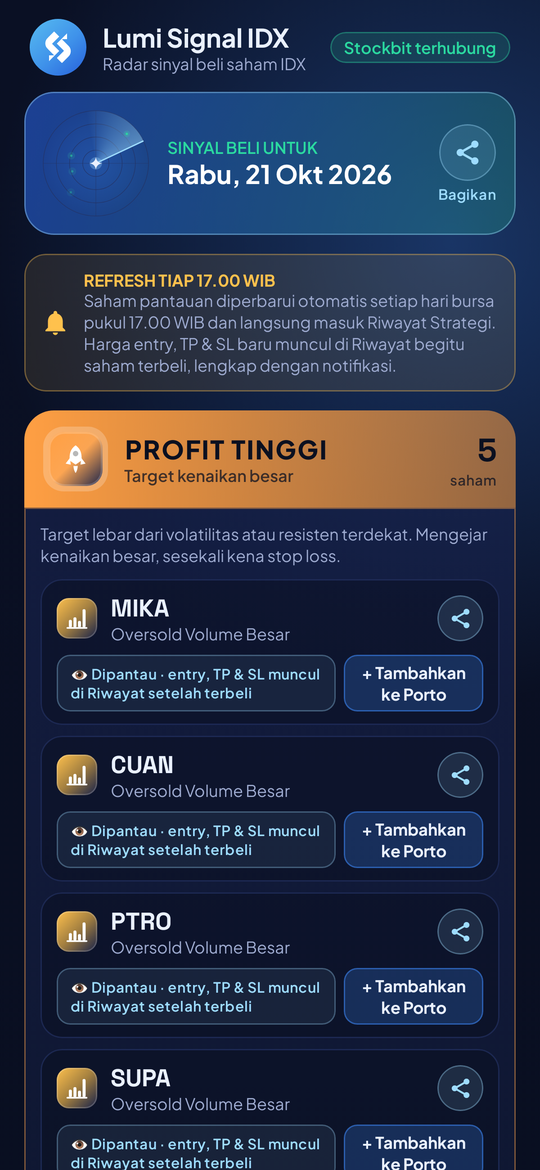
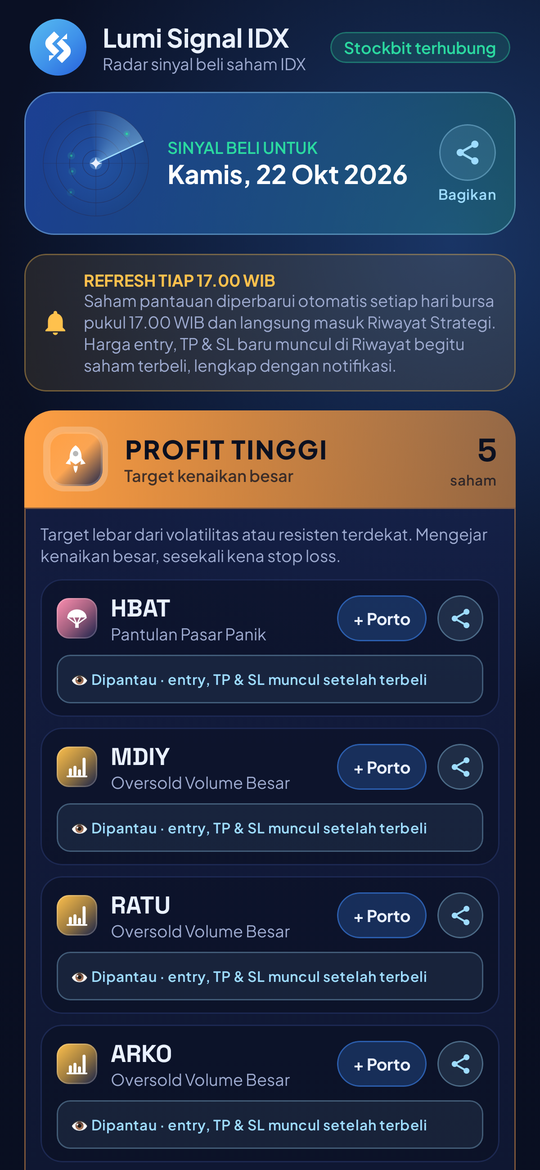
v2.2: tombol Porto di atas kartu Beranda, Riwayat Strategi, dan detail
Claude-Session: https://claude.ai/code/session_01PuKLHyoYSW1sPiRyMbgmbw

Changed region(s): [[0.0889, 0.4923, 0.9185, 1.0], [0.3852, 0.1231, 0.7704, 0.1846], [0.3259, 0.1231, 0.3556, 0.1538]]

diff --git a/app/src/main/java/com/lumisignal/idx/ui/screens/RadarScreen.kt b/app/src/main/java/com/lumisignal/idx/ui/screens/RadarScreen.kt
@@ -568,7 +568,22 @@ fun PickRow(d: RadarDay, tier: String, jenis: String, p: RadarPick, sid: Int, co
                 val sub = if (combined) d.strategy(sid)?.name ?: p.name else p.name
                 if (sub.isNotBlank()) Text(sub, style = MaterialTheme.typography.bodySmall, color = Lumi.TextDim, maxLines = 1, overflow = TextOverflow.Ellipsis)
             }
-            Spacer(Modifier.width(10.dp))
+            Spacer(Modifier.width(8.dp))
+            // Portfolio button at the top, next to share.
+            val c = if (inPorto) Lumi.Green else Lumi.Blue
+            Box(
+                Modifier.height(34.dp).clip(RoundedCornerShape(17.dp)).background(c.copy(alpha = if (inPorto) 0.12f else 0.22f))
+                    .border(1.dp, c.copy(alpha = 0.5f), RoundedCornerShape(17.dp))
+                    .clickable { if (inPorto) onClick() else dialog = true }.padding(horizontal = 12.dp),
+                contentAlignment = Alignment.Center,
+            ) {
+                Text(
+                    if (inPorto) "✓ Di Porto" else "+ Porto",
+                    style = MaterialTheme.typography.labelMedium.copy(fontWeight = FontWeight.Bold),
+                    color = if (inPorto) Lumi.Green else Lumi.Text, maxLines = 1,
+                )
+            }
+            Spacer(Modifier.width(8.dp))
             val shareCtx = LocalContext.current
             ShareIcon({ com.lumisignal.idx.share.ShareCards.sharePick(shareCtx, d, jenis, p, sid) }, 34.dp)
         }
@@ -576,26 +591,13 @@ fun PickRow(d: RadarDay, tier: String, jenis: String, p: RadarPick, sid: Int, co
         Row(horizontalArrangement = Arrangement.spacedBy(6.dp)) {
             // Watchlist: entry, TP and SL are announced in the history (with a notification) once bought.
             Row(
-                Modifier.weight(2f).height(42.dp).clip(RoundedCornerShape(10.dp)).background(Lumi.Sky.copy(alpha = 0.08f))
+                Modifier.weight(1f).height(36.dp).clip(RoundedCornerShape(10.dp)).background(Lumi.Sky.copy(alpha = 0.08f))
                     .border(1.dp, Lumi.Sky.copy(alpha = 0.3f), RoundedCornerShape(10.dp)).padding(horizontal = 10.dp),
                 verticalAlignment = Alignment.CenterVertically,
             ) {
                 Text(
-                    "👁 Dipantau · entry, TP & SL muncul di Riwayat setelah terbeli",
-                    style = MaterialTheme.typography.labelSmall, color = Lumi.Sky, maxLines = 2,
-                )
-            }
-            val c = if (inPorto) Lumi.Green else Lumi.Blue
-            Box(
-                Modifier.weight(1f).height(42.dp).clip(RoundedCornerShape(10.dp)).background(c.copy(alpha = if (inPorto) 0.12f else 0.22f))
-                    .border(1.dp, c.copy(alpha = 0.5f), RoundedCornerShape(10.dp))
-                    .clickable { if (inPorto) onClick() else dialog = true }.padding(horizontal = 6.dp),
-                contentAlignment = Alignment.Center,
-            ) {
-                Text(
-                    if (inPorto) "✓ Sudah di Porto" else "+ Tambahkan ke Porto",
-                    style = MaterialTheme.typography.labelMedium.copy(fontWeight = FontWeight.Bold, textAlign = androidx.compose.ui.text.style.TextAlign.Center),
-                    color = if (inPorto) Lumi.Green else Lumi.Text, maxLines = 2,
+                    "👁 Dipantau · entry, TP & SL muncul setelah terbeli",
+                    style = MaterialTheme.typography.labelSmall, color = Lumi.Sky, maxLines = 1, overflow = TextOverflow.Ellipsis,
                 )
             }
         }

diff --git a/app/src/main/java/com/lumisignal/idx/ui/screens/SignalUi.kt b/app/src/main/java/com/lumisignal/idx/ui/screens/SignalUi.kt
@@ -30,6 +30,7 @@ import androidx.compose.runtime.getValue
 import androidx.compose.runtime.mutableStateOf
 import androidx.compose.runtime.remember
 import androidx.compose.runtime.setValue
+import androidx.lifecycle.compose.collectAsStateWithLifecycle
 import androidx.compose.ui.Alignment
 import androidx.compose.ui.Modifier
 import androidx.compose.ui.draw.clip
@@ -130,10 +131,28 @@ fun SignalRow(sig: Signal, onOpen: () -> Unit) {
                     Text(sig.symbol, style = NumberStyle.copy(fontSize = 18.sp, fontWeight = FontWeight.Bold), color = Lumi.Text)
                     Spacer(Modifier.width(8.dp))
                 }
-                Text(
-                    sig.radar?.name ?: Strategy.byId(sig.strategyId).title, style = MaterialTheme.typography.bodySmall, color = Lumi.TextDim,
-                    maxLines = 1, overflow = TextOverflow.Ellipsis,
-                )
+            }
+            // Strategy history: add to the portfolio from the top of the card.
+            if (sig.source == com.lumisignal.idx.data.SOURCE_STRATEGY) {
+                val items by com.lumisignal.idx.Graph.history.items.collectAsStateWithLifecycle()
+                val inPorto = androidx.compose.runtime.remember(items, sig.id) {
+                    items.any { it.source == com.lumisignal.idx.data.SOURCE_PORTO && it.linkedId == sig.id }
+                }
+                var dialog by androidx.compose.runtime.remember { androidx.compose.runtime.mutableStateOf(false) }
+                if (dialog) PortoDialog(sig, onDismiss = { dialog = false }) { price ->
+                    dialog = false
+                    com.lumisignal.idx.engine.Scanner.addToPorto(sig, price)
+                }
+                val c = if (inPorto) Lumi.Green else Lumi.Blue
+                Box(
+                    Modifier.height(32.dp).clip(RoundedCornerShape(16.dp)).background(c.copy(alpha = if (inPorto) 0.12f else 0.22f))
+                        .border(1.dp, c.copy(alpha = 0.5f), RoundedCornerShape(16.dp))
+                        .clickable { if (!inPorto) dialog = true else onOpen() }.padding(horizontal = 12.dp),
+                    contentAlignment = Alignment.Center,
+                ) {
+                    Text(if (inPorto) "✓ Di Porto" else "+ Porto", style = MaterialTheme.typography.labelMedium.copy(fontWeight = FontWeight.Bold), color = if (inPorto) Lumi.Green else Lumi.Text)
+                }
+                Spacer(Modifier.width(8.dp))
             }
             ShareIcon({ com.lumisignal.idx.share.ShareCards.shareSignal(shareCtx, sig) }, 32.dp)
             Spacer(Modifier.width(8.dp))
@@ -146,7 +165,12 @@ fun SignalRow(sig: Signal, onOpen: () -> Unit) {
                 }
             }
         }
-        Spacer(Modifier.height(10.dp))
+        // Strategy name on its own line, so the buttons above never squeeze it.
+        Text(
+            sig.radar?.name ?: Strategy.byId(sig.strategyId).title, style = MaterialTheme.typography.bodySmall, color = Lumi.TextDim,
+            maxLines = 1, overflow = TextOverflow.Ellipsis, modifier = Modifier.padding(start = 48.dp, top = 2.dp),
+        )
+        Spacer(Modifier.height(8.dp))
         TradeTimeline(
             signal = sig.refDate, buy = sig.entryDate, sell = sig.exitDate, hold = sig.holdDays,
             pending = when {

diff --git a/app/src/main/java/com/lumisignal/idx/ui/screens/DetailScreen.kt b/app/src/main/java/com/lumisignal/idx/ui/screens/DetailScreen.kt
@@ -220,6 +220,14 @@ private fun RadarSignalDetail(sig: Signal, chartBars: List<Bar>, onBack: () -> U
                 }
             }
             Spacer(Modifier.height(12.dp))
+            // Portfolio action at the top.
+            when {
+                sig.source == SOURCE_PORTO ->
+                    GhostButton("Hapus dari Porto", onDelete, Modifier.fillMaxWidth(), icon = Icons.Filled.Delete, color = Lumi.Red)
+                porto == null -> GradientButton("Masukkan Porto", onPorto, Modifier.fillMaxWidth(), icon = Icons.Filled.Add)
+                else -> GhostButton("Sudah ada di Porto", {}, Modifier.fillMaxWidth(), icon = Icons.Filled.CheckCircle, color = Lumi.Green)
+            }
+            Spacer(Modifier.height(12.dp))
             TrackingCard(sig)
             Spacer(Modifier.height(12.dp))
             plan?.let {
@@ -268,13 +276,6 @@ private fun RadarSignalDetail(sig: Signal, chartBars: List<Bar>, onBack: () -> U
                     Spacer(Modifier.height(4.dp))
                     Text("Syarat: ${tag.desc}", style = MaterialTheme.typography.bodySmall, color = Lumi.TextMuted)
                 }
-            }
-            Spacer(Modifier.height(12.dp))
-            when {
-                sig.source == SOURCE_PORTO ->
-                    GhostButton("Hapus dari Porto", onDelete, Modifier.fillMaxWidth(), icon = Icons.Filled.Delete, color = Lumi.Red)
-                porto == null -> GradientButton("Masukkan Porto", onPorto, Modifier.fillMaxWidth(), icon = Icons.Filled.Add)
-                else -> GhostButton("Sudah ada di Porto", {}, Modifier.fillMaxWidth(), icon = Icons.Filled.CheckCircle, color = Lumi.Green)
             }
             Spacer(Modifier.height(28.dp))
         }

diff --git a/CHANGELOG.md b/CHANGELOG.md
@@ -25,7 +25,7 @@
 - **Audit harga tiap 1 menit selama jam bursa, juga saat aplikasi ditutup**, tanpa bunyi dan tanpa ikon di status bar. Audit mulai otomatis pukul 08.50 WIB dan berhenti sendiri setelah bursa tutup
 - Notifikasi hanya untuk hal penting: saham pantauan baru (17.00), saham terbeli (entry, TP & SL), kena TP, dan kena SL
 - **Rekap harian setelah pasar tutup**: berapa saham hold, kena TP, kena SL, dan akumulasi P/L untuk Riwayat Strategi dan Porto
-- Cek Saham: tombol **Tambahkan ke Porto** dan **Bagikan** kini ada di atas
+- Tombol **Porto** kini ada di bagian atas: di kartu saham Beranda, di kartu Riwayat Strategi, di halaman detail, dan di Cek Saham (bersama tombol Bagikan)
 - **Bagikan hasil Cek Saham** sebagai gambar: harga, area beli, TP, SL, 2 support & 2 resistance, dan chart 60 sesi
 - Laporan **Riwayat** dan **Backtest** yang dibagikan kini punya kolom **ENTRY** dan kotak **HOLD** (berapa saham masih dipegang)
 - Gambar saham pantauan yang dibagikan kini fokus pada tanggal beli, kode saham, dan alasan masuk radar
@@ -49,7 +49,7 @@
 - **Price audit every minute during market hours, even with the app closed**, silent and without a status-bar icon. It starts at 08:50 WIB and stops by itself after the close
 - Notifications only for what matters: new watchlist (17:00), bought (entry, TP & SL), TP hit, and SL hit
 - **Daily recap after the close**: holds, TP, SL, and cumulative P/L for Strategy History and Portfolio
-- Stock check: **Add to Portfolio** and **Share** are now at the top
+- The **Portfolio** button is now at the top: on Home stock cards, Strategy History cards, the detail page, and Stock check (next to Share)
 - **Share a stock check** as an image: price, buy area, TP, SL, 2 supports & 2 resistances, and a 60-session chart
 - Shared **History** and **Backtest** reports now have an **ENTRY** column and a **HOLD** tile (stocks still held)
 - Shared watchlist images now focus on the buy date, ticker, and why the stock made the radar

diff --git a/release-notes/v2.2.md b/release-notes/v2.2.md
@@ -21,7 +21,7 @@
 - **Audit harga tiap 1 menit selama jam bursa, juga saat aplikasi ditutup**, tanpa bunyi dan tanpa ikon di status bar. Audit mulai otomatis pukul 08.50 WIB dan berhenti sendiri setelah bursa tutup
 - Notifikasi hanya untuk hal penting: saham pantauan baru (17.00), saham terbeli (entry, TP & SL), kena TP, dan kena SL
 - **Rekap harian setelah pasar tutup**: berapa saham hold, kena TP, kena SL, dan akumulasi P/L untuk Riwayat Strategi dan Porto
-- Cek Saham: tombol **Tambahkan ke Porto** dan **Bagikan** kini ada di atas
+- Tombol **Porto** kini ada di bagian atas: di kartu saham Beranda, di kartu Riwayat Strategi, di halaman detail, dan di Cek Saham (bersama tombol Bagikan)
 - **Bagikan hasil Cek Saham** sebagai gambar: harga, area beli, TP, SL, 2 support & 2 resistance, dan chart 60 sesi
 - Laporan **Riwayat** dan **Backtest** yang dibagikan kini punya kolom **ENTRY** dan kotak **HOLD** (berapa saham masih dipegang)
 - Gambar saham pantauan yang dibagikan kini fokus pada tanggal beli, kode saham, dan alasan masuk radar
@@ -47,7 +47,7 @@
 - **Price audit every minute during market hours, even with the app closed**, silent and without a status-bar icon. It starts at 08:50 WIB and stops by itself after the close
 - Notifications only for what matters: new watchlist (17:00), bought (entry, TP & SL), TP hit, and SL hit
 - **Daily recap after the close**: holds, TP, SL, and cumulative P/L for Strategy History and Portfolio
-- Stock check: **Add to Portfolio** and **Share** are now at the top
+- The **Portfolio** button is now at the top: on Home stock cards, Strategy History cards, the detail page, and Stock check (next to Share)
 - **Share a stock check** as an image: price, buy area, TP, SL, 2 supports & 2 resistances, and a 60-session chart
 - Shared **History** and **Backtest** reports now have an **ENTRY** column and a **HOLD** tile (stocks still held)
 - Shared watchlist images now focus on the buy date, ticker, and why the stock made the radar
